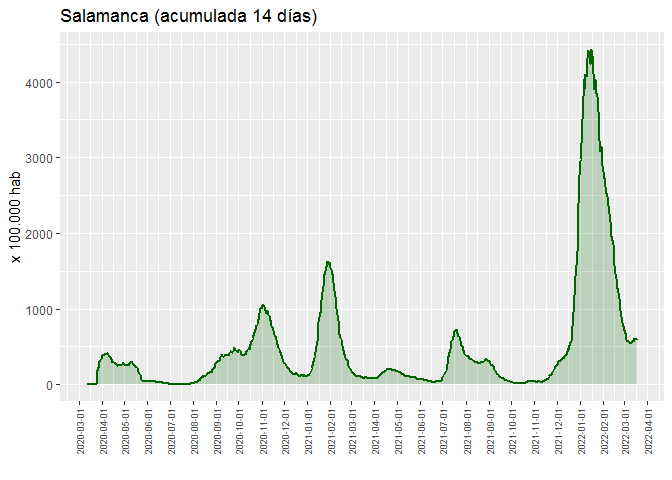
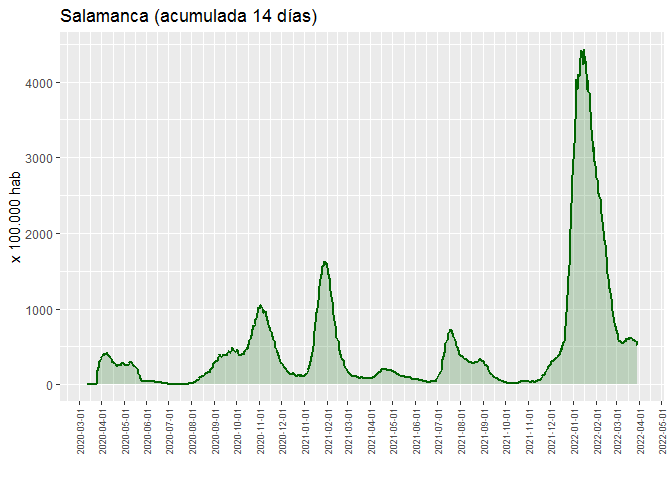
update

diff --git a/README.md b/README.md
@@ -1,7 +1,7 @@
 Covid-19: Incidencia acumulada
 ================
 JMSS \[Usal - CIC\]
-(updated: 21 mar 2022)
+(updated: 30 mar 2022)
 
 ### Incidencia acumulada del Covid19 por cada 100.000 habitantes
 
